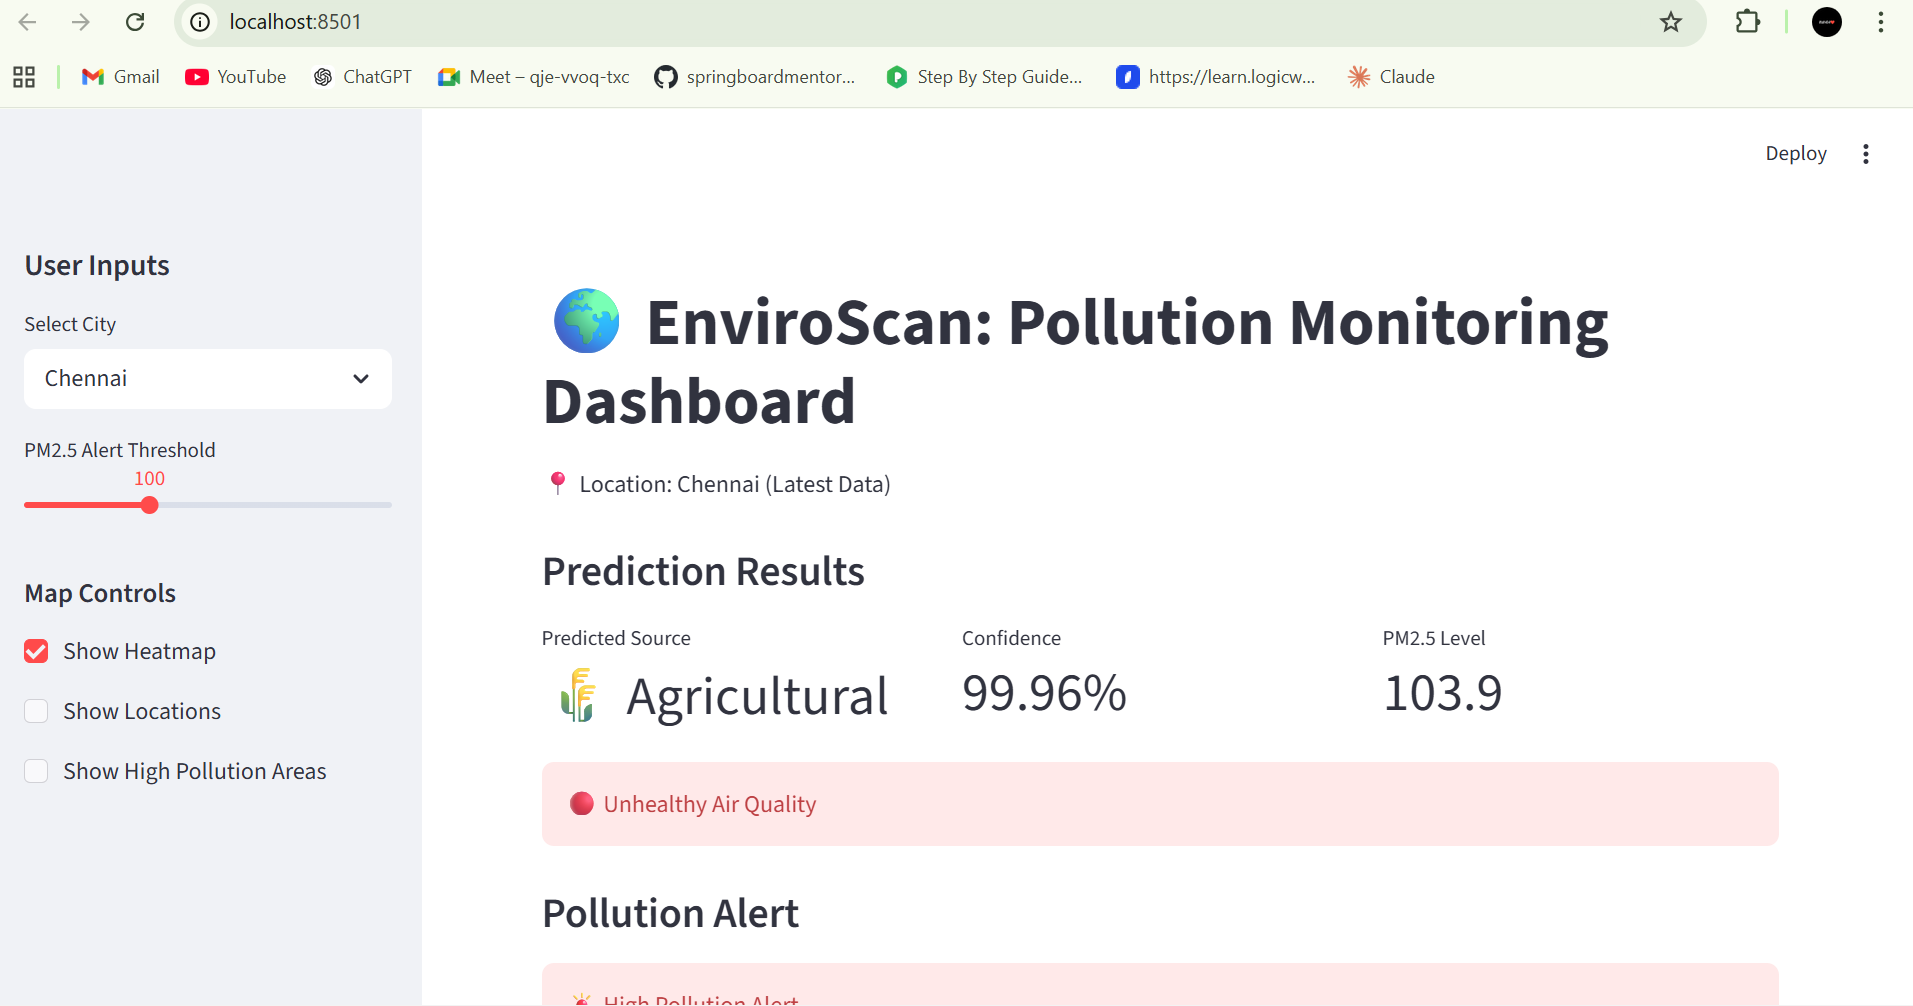
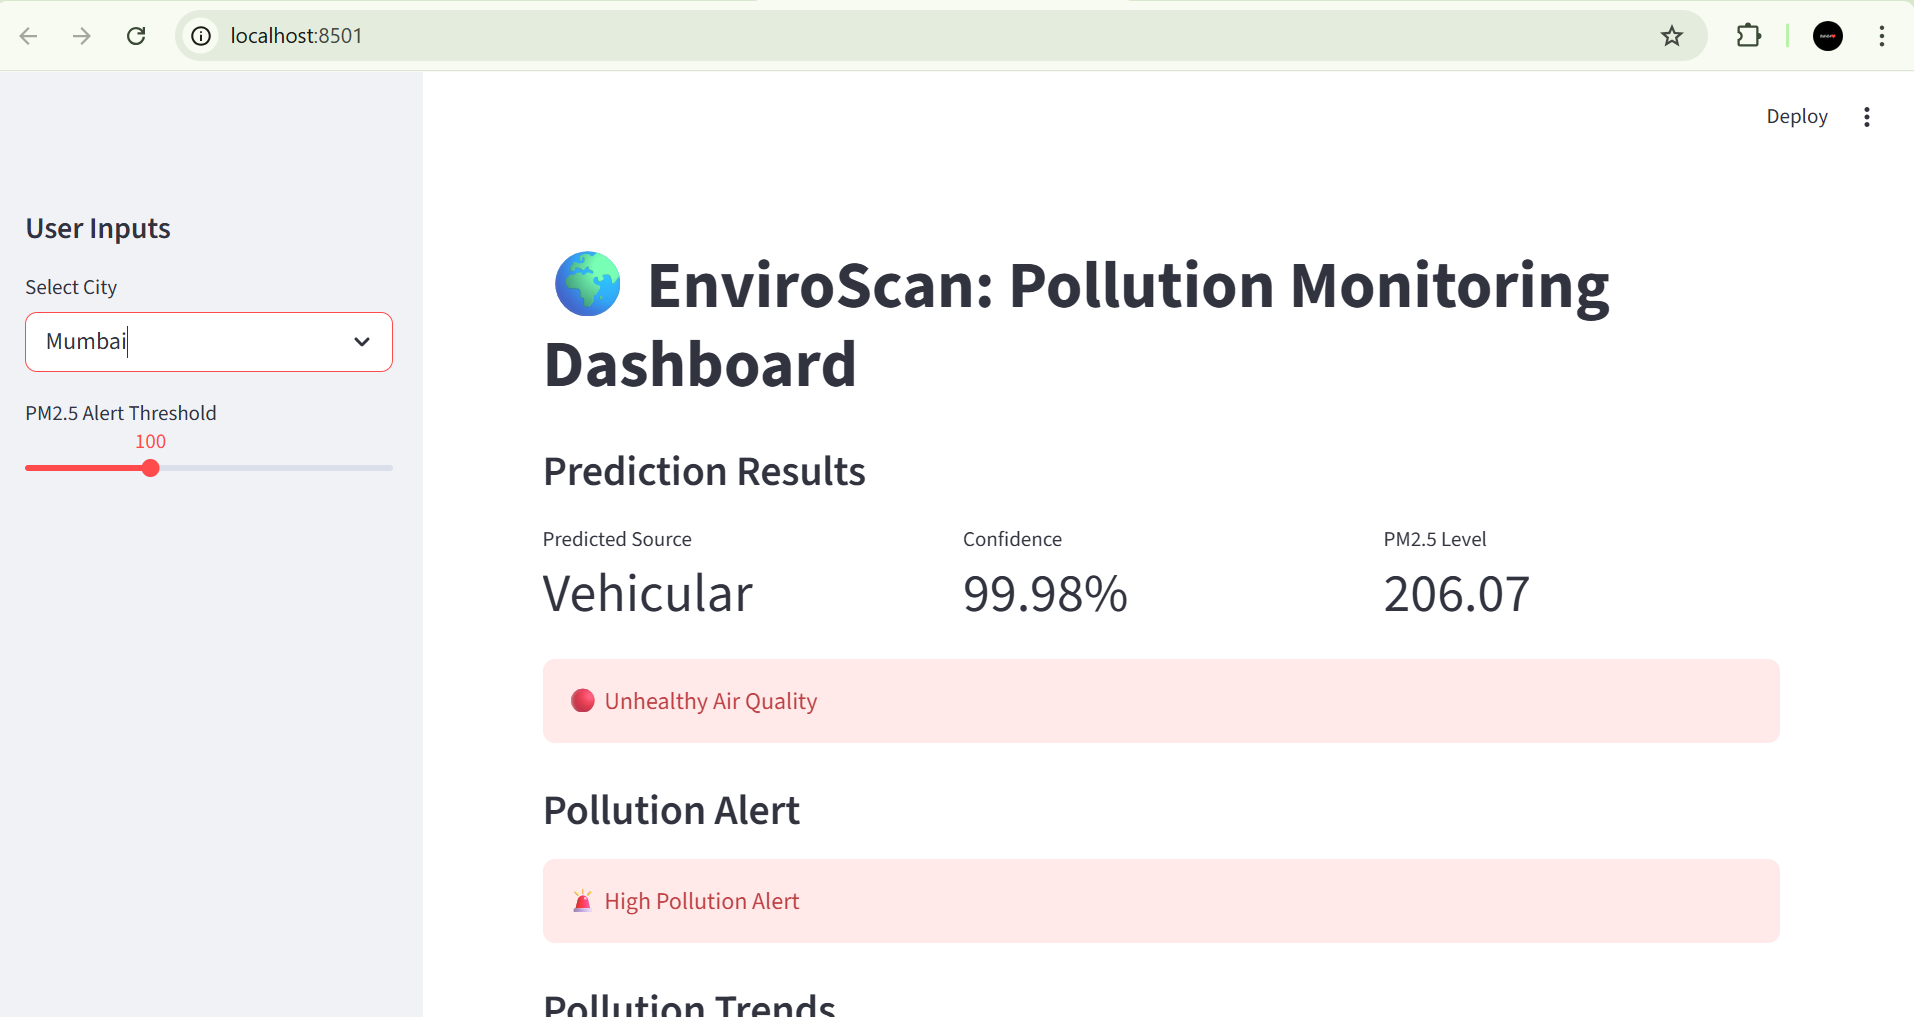
ScreenShots

diff --git a/README.md b/README.md
@@ -2,7 +2,7 @@
 
 EnviroScan is an AI-based system designed to identify dominant pollution sources using environmental data, weather conditions, and geospatial features. It combines machine learning and geospatial analytics to provide insights into pollution patterns and sources.
 
----
+
 
 ## 📌 Problem Statement
 
@@ -10,7 +10,6 @@ Air pollution monitoring systems typically measure pollutant levels but fail to 
 
 Without source identification, it becomes difficult to take targeted corrective actions. EnviroScan addresses this gap by predicting pollution sources using environmental and spatial data.
 
----
 
 ## 🎯 Objectives
 
@@ -19,7 +18,6 @@ Without source identification, it becomes difficult to take targeted corrective 
 - Provide pollution alerts based on thresholds  
 - Build an interactive dashboard for monitoring  
 
----
 
 ## 📊 Dataset Description
 
@@ -56,7 +54,7 @@ Without source identification, it becomes difficult to take targeted corrective 
 - Balanced across cities  
 - ~4 months of data  
 
----
+
 
 ## 🧹 Data Preprocessing
 
@@ -66,7 +64,6 @@ Without source identification, it becomes difficult to take targeted corrective 
 - Generated distance-based features  
 - Structured dataset for modeling  
 
----
 
 ## 📈 Exploratory Data Analysis (EDA)
 
@@ -75,7 +72,7 @@ Without source identification, it becomes difficult to take targeted corrective 
 - Analyzed relationships between weather and pollution  
 - Visualized pollutant distributions  
 
----
+
 
 ## 🏷 Source Labeling Methodology
 
@@ -111,7 +108,7 @@ Pollution sources were labeled using rule-based logic based on pollutant thresho
 ⚠ **Important Note**:  
 Labels are **simulated** due to lack of real-world ground truth data.
 
----
+
 
 ## 🤖 Model Development
 
@@ -128,7 +125,7 @@ Labels are **simulated** due to lack of real-world ground truth data.
 ### Best Model
 XGBoost (highest F1-score)
 
----
+
 
 ## 📊 Model Evaluation
 
@@ -138,8 +135,6 @@ XGBoost (highest F1-score)
 ### Interpretation
 High accuracy is expected due to rule-based labeling. Tree-based models effectively learn threshold-based decision rules.
 
----
-
 ## 🗺 Geospatial Visualization
 
 - Used **Folium** for mapping  
@@ -147,7 +142,6 @@ High accuracy is expected due to rule-based labeling. Tree-based models effectiv
 - Added location markers  
 - Highlighted high pollution areas  
 
----
 
 ## 📊 Dashboard Implementation
 
@@ -165,7 +159,6 @@ The dashboard was built using **Streamlit**.
 - Interactive map with controls  
 - Downloadable pollution reports  
 
----
 
 ## 📌 Results & Outputs
 
@@ -174,7 +167,6 @@ The dashboard was built using **Streamlit**.
 - Provided alert system for unsafe conditions  
 - Built a user-friendly dashboard  
 
----
 
 ## ⚠ Limitations
 
@@ -183,7 +175,7 @@ The dashboard was built using **Streamlit**.
 - Limited dataset (~4 months)  
 - Static dataset (not real-time APIs)  
 
----
+
 
 ## 🚀 Future Enhancements
 
@@ -193,7 +185,6 @@ The dashboard was built using **Streamlit**.
 - Satellite data integration  
 - Improved labeling techniques  
 
----
 
 ## 📁 Project Structure
 
@@ -211,8 +202,6 @@ ENVIRON-SCAN/
 ├── README.md
 
 
----
-
 ## ▶ How to Run the Project
 
 ### Install Dependencies
@@ -225,7 +214,7 @@ ENVIRON-SCAN/
         streamlit run dashboard.py
 
 
----
+
 
 ## 🛠 Technologies Used
 
@@ -237,43 +226,23 @@ ENVIRON-SCAN/
 - Folium  
 - Streamlit  
 
----
+## 📸 Dashboard Screenshots
 
-## 📸 Screenshots
+### 🔹 Main Dashboard
+<img src="screenshots/Dashboard-1.png" width="600">
 
-## 📸 Screenshots
+### 🔹 Pollution Trends
+<img src="screenshots/Dashboard-2.png" width="600">
 
-### Dashboard Overview
-![Dashboard](screenshots/Dashboard-1.png)
+### 🔹 Pollution Map
+<img src="screenshots/Dashboard-3.png" width="600">
 
-### Dashboard View 2
-![Dashboard](screenshots/Dashboard-2.png)
 
-### Charts & Trends
-![Charts](screenshots/Dashboard-3.png)
-
-### Pollution Map
-![Map](screenshots/Dashboard-4.png)
-
-### Additional View
-![Dashboard](screenshots/Dashboard-5.png)
-
-### Feature Importance
-![Feature Importance](screenshots/feature_importance.png)
-
-### Confusion Matrix
-![Confusion Matrix](screenshots/confusion_matrix.png)
-
-### Label Distribution
-![Label Distribution](screenshots/label_distribution.png)
-
----
 
 ## 🙌 Conclusion
 
 EnviroScan demonstrates how machine learning and geospatial analytics can be combined to identify pollution sources and provide actionable insights for environmental monitoring.
 
----
 
 ## 👩💻 Author
 
